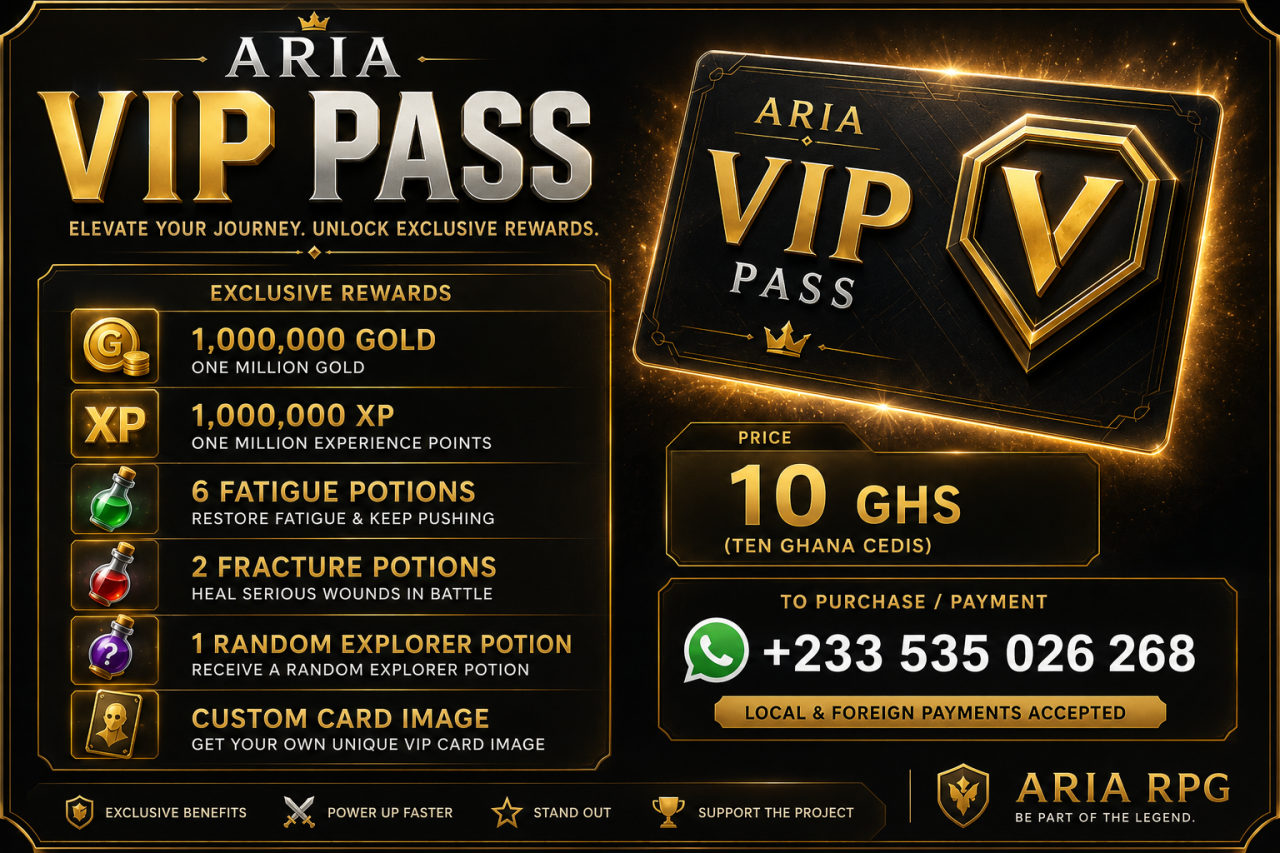
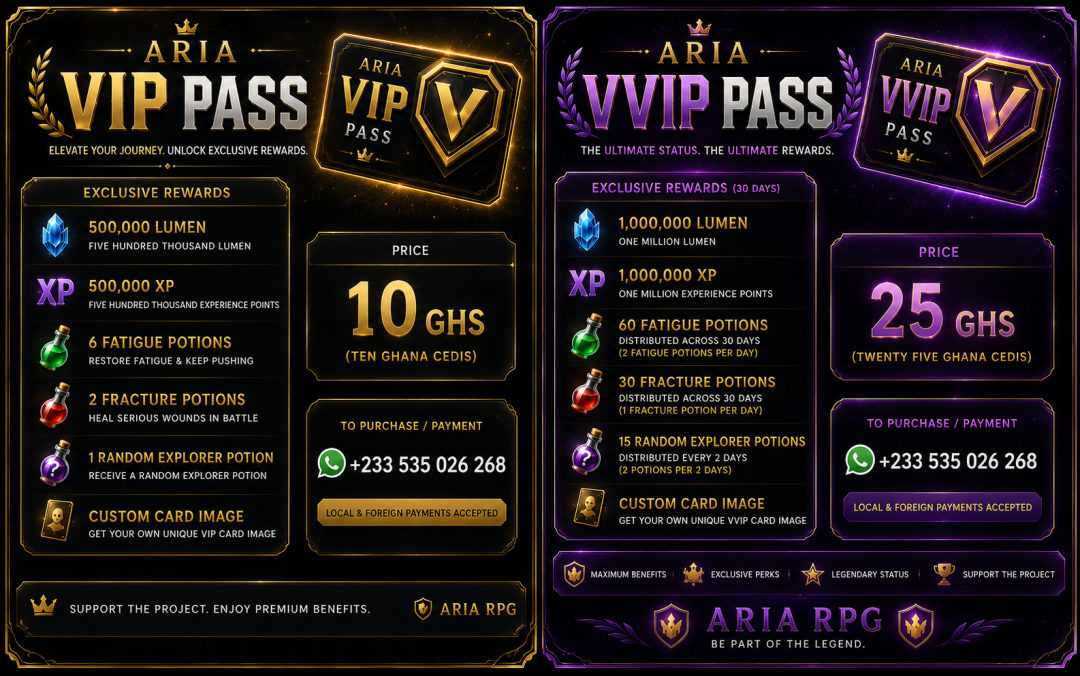
New VIP/VVIP artwork + ad reduced to 3x daily
Assets (owner-supplied, compressed): vvip-congrats.jpg (purple VVIP pass,
1M Lumen, drip totals 60/30/15), new vip-congrats.jpg (Lumens wording), and
the combined two-tier poster replacing vip-pass.jpg (used by the !vip pitch
and the ad).

Ad frequency: was every 10-15 min during downtime — now 3 fixed slots daily
(09:30 / 14:30 / 19:30 UTC), each skipped if a raid is live. Caption sells
both tiers.

diff --git a/src/boot/crons.js b/src/boot/crons.js
@@ -206,22 +206,19 @@ function registerCrons({ getSock, isReady }) {
         } catch(e) { console.error('Prestige cron spawn error:', e.message); }
     });
 
-    // ==================== VIP PASS AD (raid downtime) ====================
-    // Posts the VIP PASS poster to the announcement group every 10–15 min
-    // WHILE NO RAID IS RUNNING. Target group via VIP_AD_GC_JID (defaults to
-    // the raid group); disable entirely with VIP_AD_OFF=1.
-    let lastVipAd = 0;
-    let nextVipAdGap = 10 * 60 * 1000 + Math.floor(Math.random() * 5 * 60 * 1000);
+    // ==================== VIP/VVIP PASS AD (3× daily) ====================
+    // Posts the combined VIP+VVIP poster 3 times a day (09:30 / 14:30 / 19:30
+    // UTC), skipping any slot where a raid is live. Target via VIP_AD_GC_JID
+    // (defaults to the raid group); disable entirely with VIP_AD_OFF=1.
     let vipAdImage = null; // lazy-loaded once
-    cron.schedule('*/5 * * * *', async () => {
+    cron.schedule('30 9,14,19 * * *', async () => {
         const sock = getSock();
         if (!isReady() || !sock) return;
         if (process.env.VIP_AD_OFF === '1') return;
-        if (Date.now() - lastVipAd < nextVipAdGap) return;
         try {
-            // Downtime only — any live dungeon means players are busy.
+            // Skip this slot if players are mid-raid.
             const [active] = await db.execute("SELECT id FROM dungeon WHERE is_active=1 LIMIT 1");
-            if (active.length) return;
+            if (active.length) { console.log('👑 VIP ad slot skipped — raid active.'); return; }
 
             if (!vipAdImage) {
                 const fs = require('fs');
@@ -229,19 +226,17 @@ function registerCrons({ getSock, isReady }) {
                 vipAdImage = fs.readFileSync(path.join(__dirname, '..', '..', 'assets', 'vip-pass.jpg'));
             }
             const AD_JID = process.env.VIP_AD_GC_JID || process.env.RAID_GROUP_JID || '[email redacted]';
-            const { PRICE_GHS, PRICE_NGN, SUB_DAYS } = require('../systems/subscriberSystem');
+            const { TIERS, SUB_DAYS } = require('../systems/subscriberSystem');
             await sock.sendMessage(AD_JID, {
                 image: vipAdImage,
                 caption:
-                    `◆═══〘 👑 ARIA VIP PASS 〙═══◆\n` +
-                    `┃◈ 💵 GH₵${PRICE_GHS} (~₦${PRICE_NGN}) • ${SUB_DAYS} days\n` +
-                    `┃◈ Type *!vip* for details.\n` +
+                    `◆═══〘 👑 VIP • 💎 VVIP 〙═══◆\n` +
+                    `┃◈ 👑 VIP — GH₵${TIERS.VIP.priceGhs} • 💎 VVIP — GH₵${TIERS.VVIP.priceGhs}\n` +
+                    `┃◈ ⏳ ${SUB_DAYS} days • Type *!vip* for details.\n` +
                     `◆═══════════════════════◆`,
                 mimetype: 'image/jpeg'
             });
-            lastVipAd = Date.now();
-            nextVipAdGap = 10 * 60 * 1000 + Math.floor(Math.random() * 5 * 60 * 1000);
-            console.log('👑 VIP ad posted (no raid active).');
+            console.log('👑 VIP/VVIP ad posted.');
         } catch (e) { console.error('VIP ad cron error:', e.message); }
     });
 